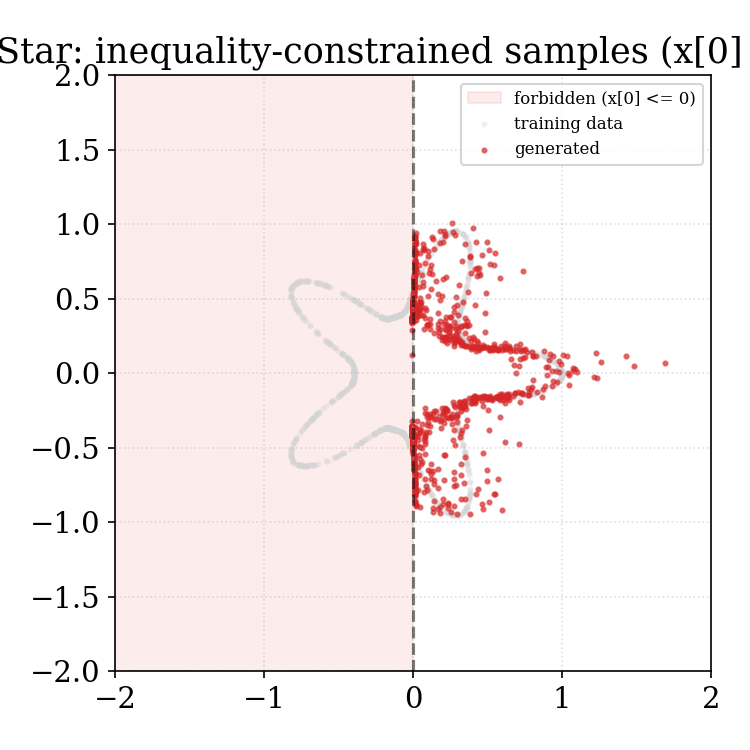
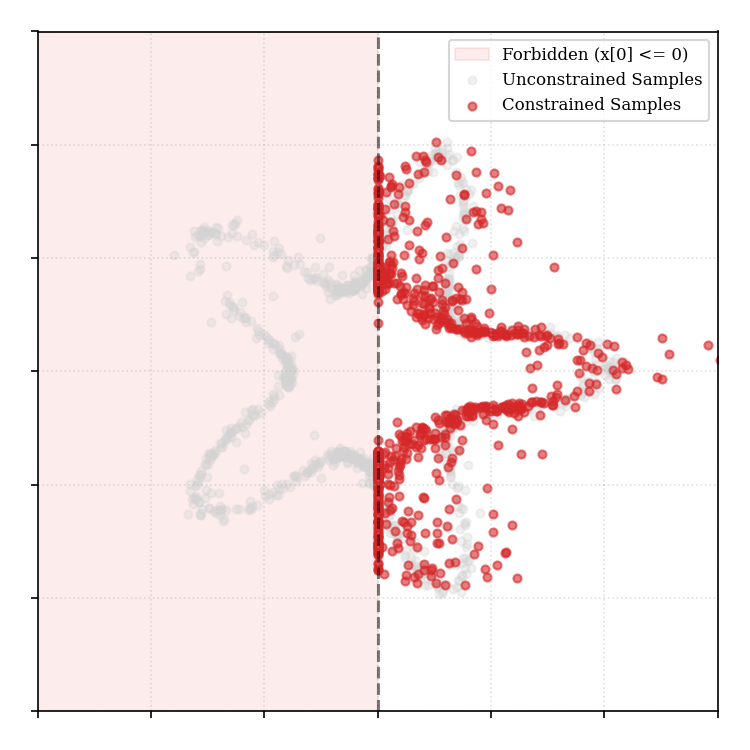
improve inequality figure

diff --git a/plots.py b/plots.py
@@ -25,7 +25,6 @@ import matplotlib.pyplot as plt
 import numpy as np
 
 from datasets.mnist import MNISTDataset
-from datasets.star import StarDataset
 from generation import (
     generate,
     generate_constrained,
@@ -580,44 +579,57 @@ def plot_inequality_star(
     if regenerate or not data_file.exists():
         print("[inequality_star] regenerating raw data ...")
         model, normalizer = _load_model("star")
+        x_unconstrained, _ = generate(
+            model, normalizer, num_samples=num_samples, dt=0.01
+        )
         x, _ = generate_inequality_constrained(
             model,
             normalizer,
             _right_half_constraint,
             num_samples=num_samples,
             dt=0.01,
-            penalty_weight=10.0,
+            penalty_weight=20.0,
             rescale_factor=1.0,
         )
         with open(data_file, "wb") as f:
-            pickle.dump({"x": np.asarray(x)}, f)
+            pickle.dump(
+                {"x": np.asarray(x), "x_unc": np.asarray(x_unconstrained)}, f
+            )
 
     with open(data_file, "rb") as f:
-        x = pickle.load(f)["x"]
-
-    dataset = StarDataset(num_samples=1024)
-    train = np.asarray(dataset.data)
+        data = pickle.load(f)
+    x = data["x"]
+    x_unc = data.get("x_unc")
 
     fig, ax = plt.subplots(figsize=(5, 5))
     ax.axvspan(
-        -2, 0, color="lightcoral", alpha=0.15, label="forbidden (x[0] <= 0)"
+        -2, 0, color="lightcoral", alpha=0.15, label="Forbidden (x[0] <= 0)"
     )
+    if x_unc is not None:
+        ax.scatter(
+            x_unc[:, 0],
+            x_unc[:, 1],
+            s=15,
+            alpha=0.3,
+            color="lightgray",
+            label="Unconstrained Samples",
+        )
     ax.scatter(
-        train[:, 0],
-        train[:, 1],
-        s=4,
-        alpha=0.25,
-        color="lightgray",
-        label="training data",
+        x[:, 0],
+        x[:, 1],
+        s=15,
+        alpha=0.6,
+        color="C3",
+        label="Constrained Samples",
     )
-    ax.scatter(x[:, 0], x[:, 1], s=4, alpha=0.6, color="C3", label="generated")
     ax.axvline(0, color="k", linestyle="--", alpha=0.5)
-    ax.set_xlim(-2, 2)
-    ax.set_ylim(-2, 2)
+    ax.set_xlim(-1.5, 1.5)
+    ax.set_ylim(-1.5, 1.5)
+    ax.set_xticklabels([])
+    ax.set_yticklabels([])
     ax.set_aspect("equal")
     ax.grid(linestyle=":", alpha=0.4)
     ax.legend(loc="upper right", fontsize=8)
-    ax.set_title("Star: inequality-constrained samples (x[0] > 0)")
     fig.tight_layout()
     out = FIG_DIR / "inequality_star.png"
     fig.savefig(out, dpi=150)